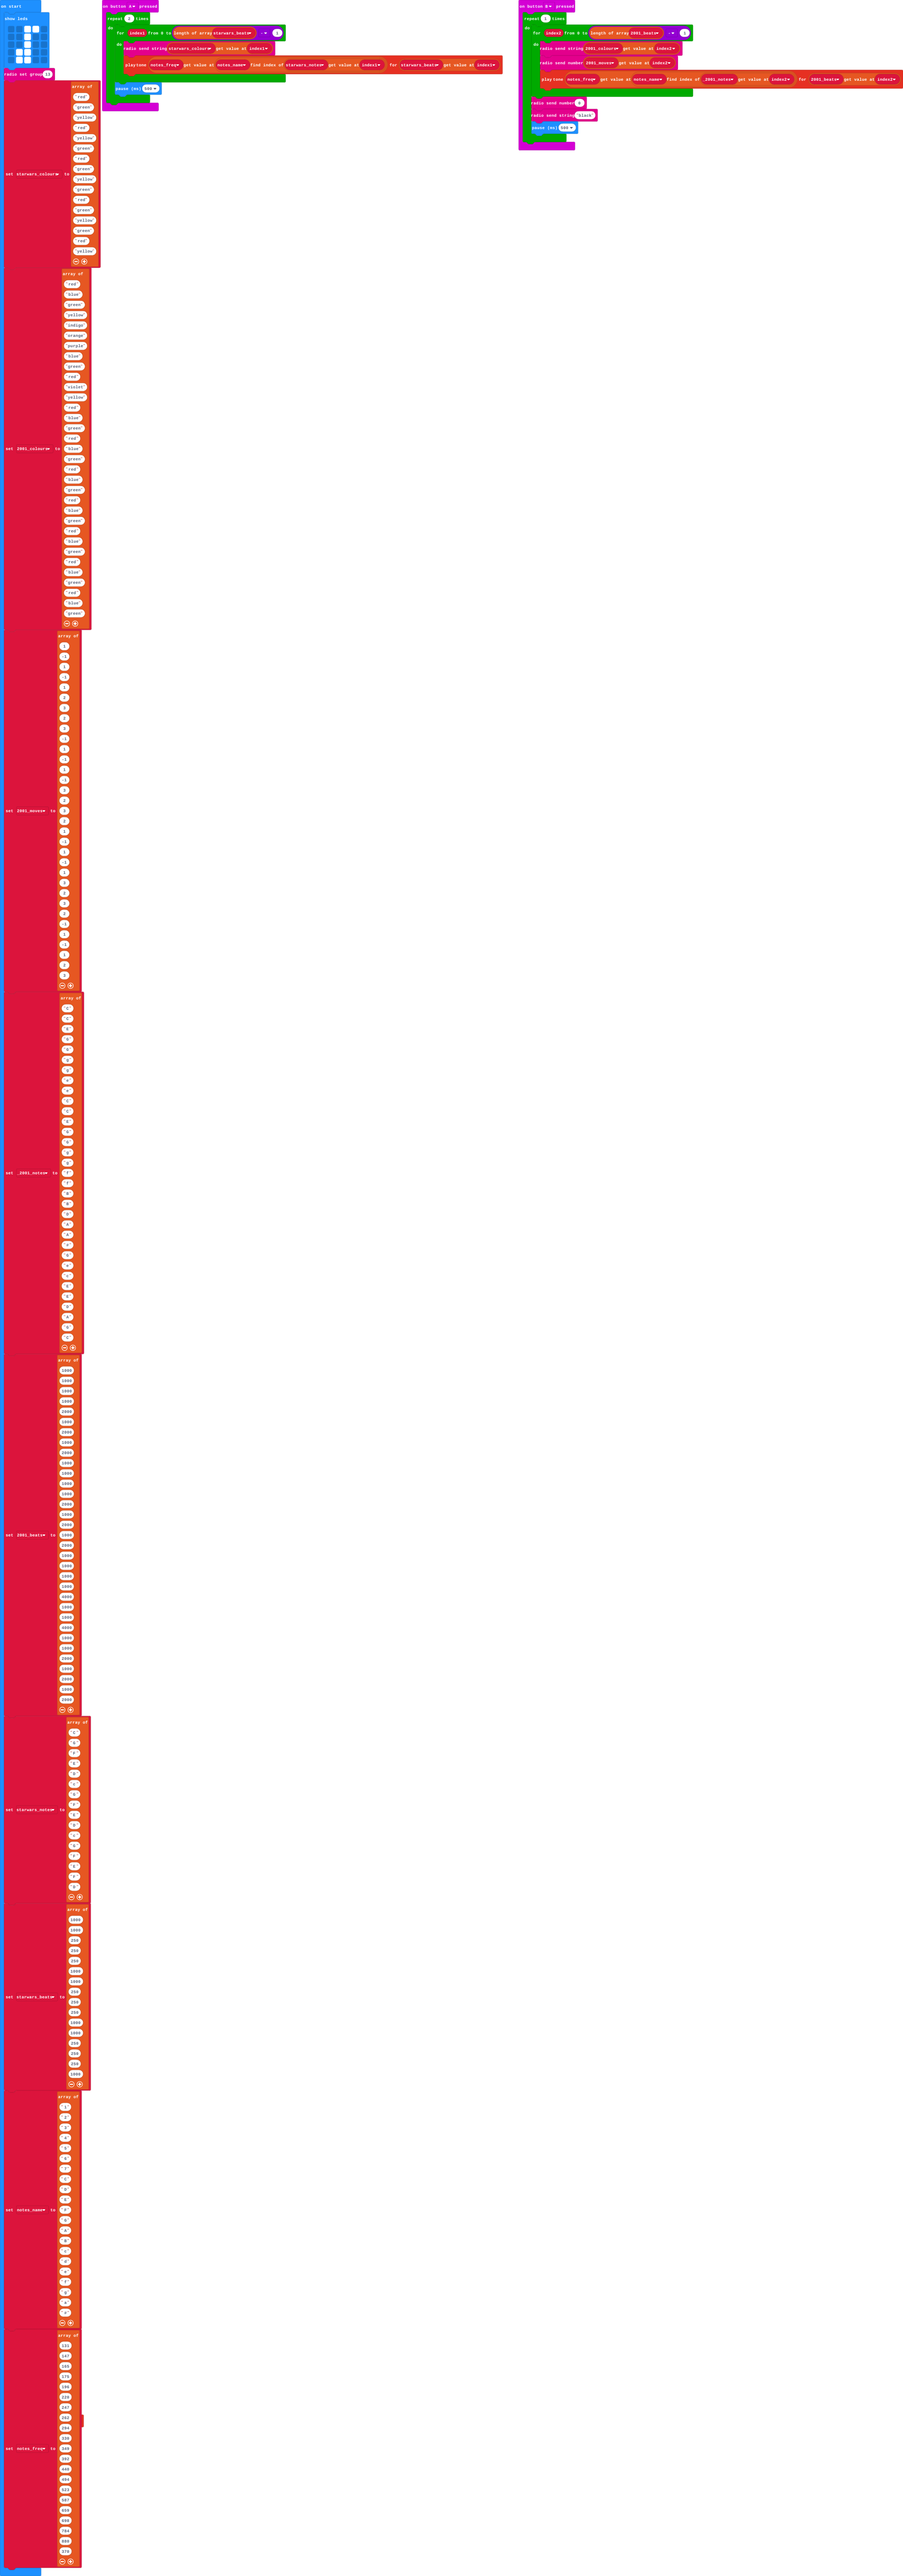
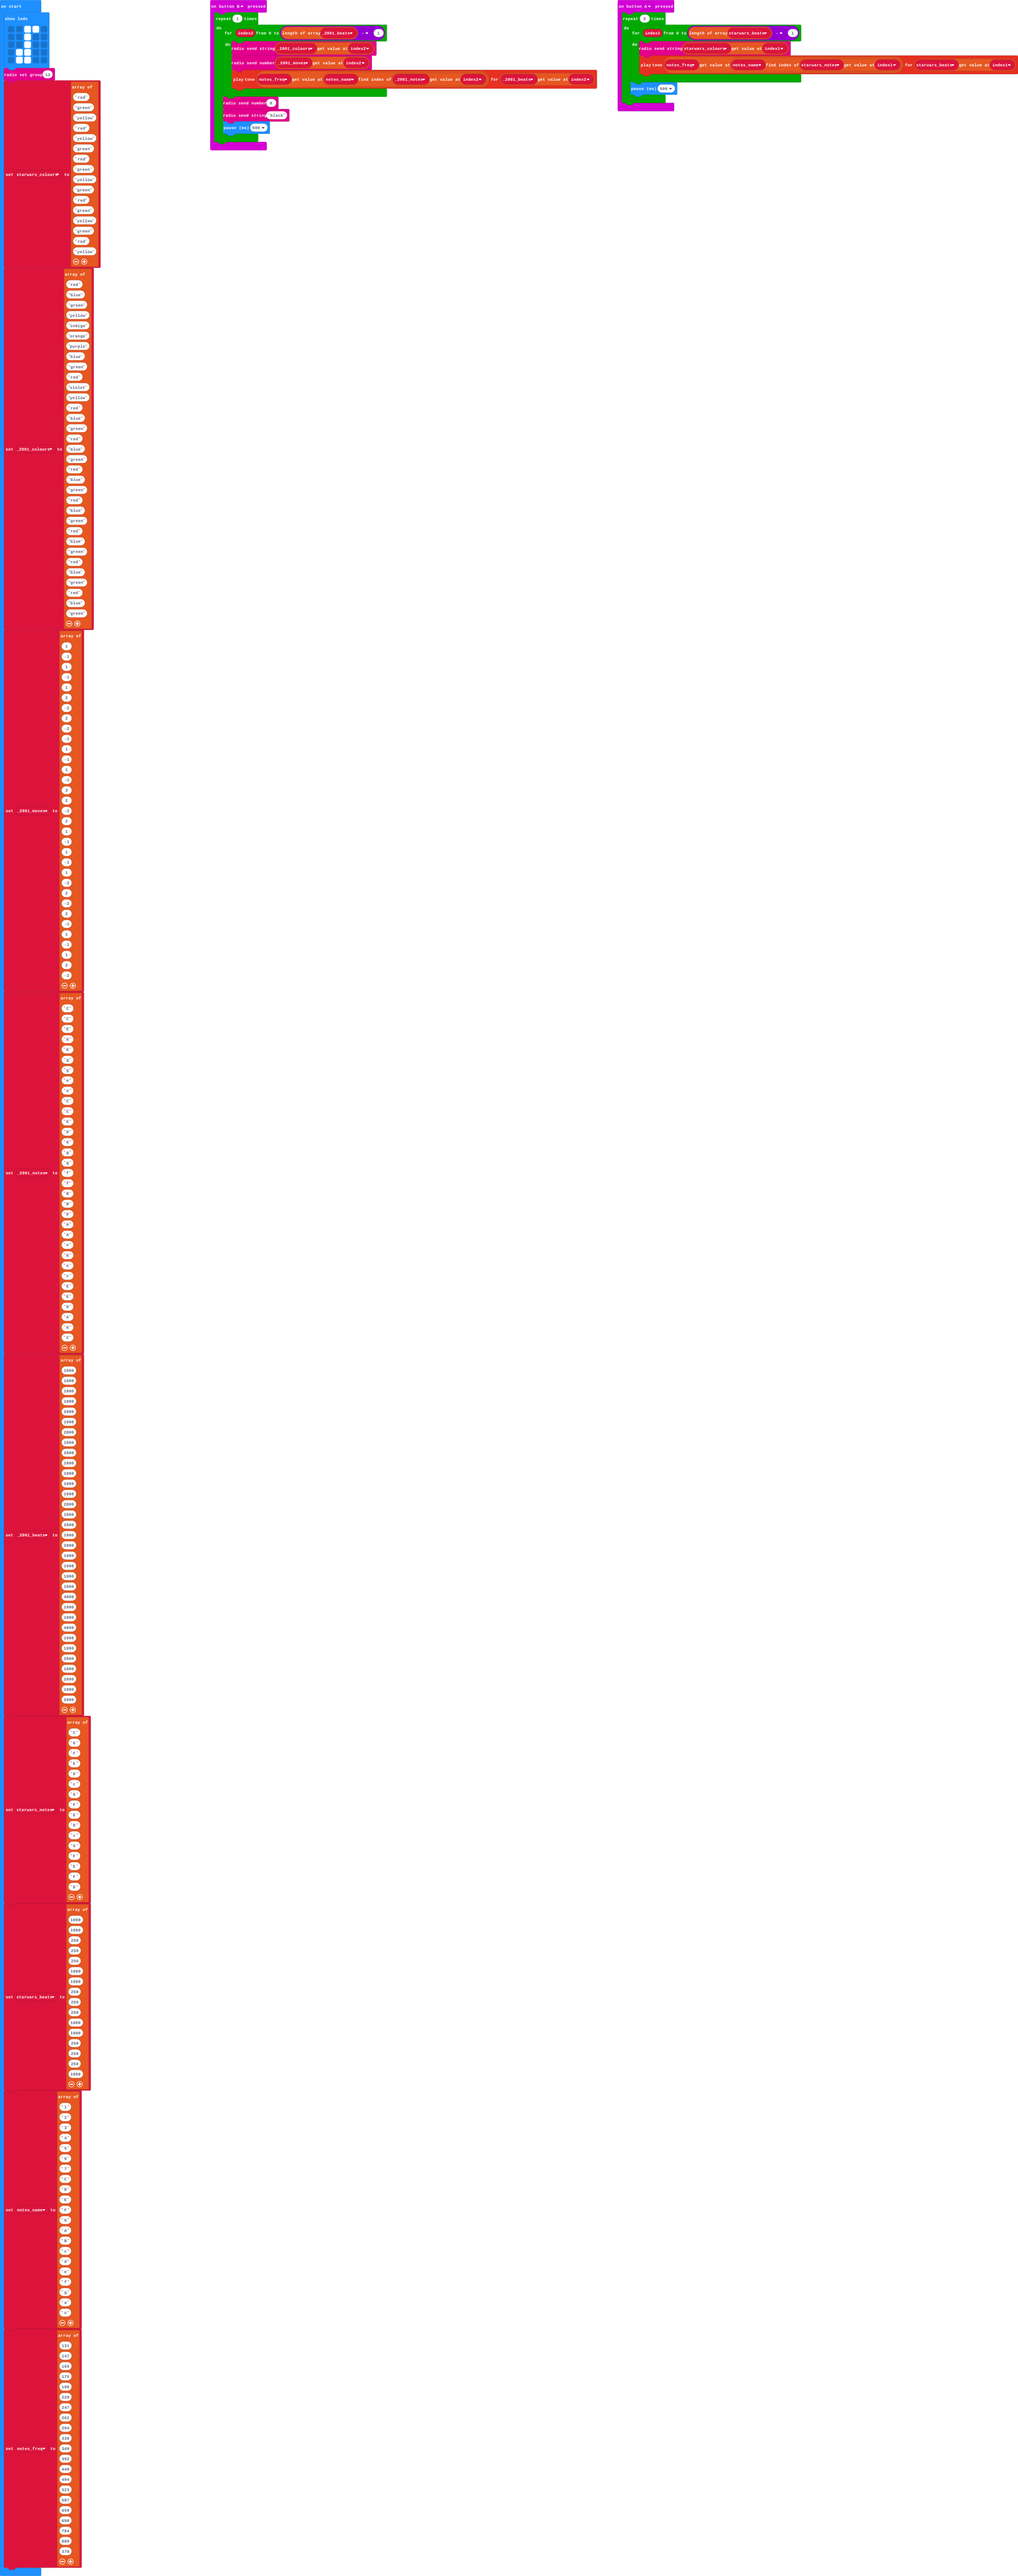
Update main.blocks, main.ts

Changed region(s): [[0.0, 0.0, 1.0, 1.0], [0.0, 0.0, 0.0615, 0.0312]]

diff --git a/main.ts b/main.ts
@@ -1,6 +1,3 @@
-input.onButtonPressed(Button.AB, function () {
-    music.playTone(659, music.beat(BeatFraction.Whole))
-})
 input.onButtonPressed(Button.B, function () {
     for (let index = 0; index < 1; index++) {
         for (let index2 = 0; index2 <= _2001_beats.length - 1; index2++) {
@@ -41,7 +38,7 @@ basic.showLeds(`
 radio.setGroup(13)
 starwars_colours = ["red", "green", "yellow", "red", "yellow", "green", "red", "green", "yellow", "green", "red", "green", "yellow", "green", "red", "yellow"]
 _2001_colours = ["red", "blue", "green", "yellow", "indigo", "orange", "purple", "blue", "green", "red", "violet", "yellow", "red", "blue", "green", "red", "blue", "green", "red", "blue", "green", "red", "blue", "green", "red", "blue", "green", "red", "blue", "green", "red", "blue", "green"]
-_2001_moves = [1, -1, 1, -1, 1, 2, 3, 2, 3, -1, 1, -1, 1, -1, 3, 2, 3, 2, 1, -1, 1, -1, 1, 3, 2, 3, 2, -1, 1, -1, 1, 2, 3]
+_2001_moves = [1, -1, 1, -1, 1, 2, -2, 2, -2, -1, 1, -1, 1, -1, 3, 2, -2, 2, 1, -1, 1, -1, 1, -2, 2, -2, 2, -1, 1, -1, 1, 2, -2]
 _2001_notes = ["C", "C", "E", "G", "G", "g", "g", "e", "e", "C", "C", "E", "G", "G", "g", "g", "f", "f", "B", "B", "D", "A", "A", "#", "G", "e", "c", "E", "E", "D", "A", "G", "C"]
 _2001_beats = [1000, 1000, 1000, 1000, 2000, 1000, 2000, 1000, 2000, 1000, 1000, 1000, 1000, 2000, 1000, 2000, 1000, 2000, 1000, 1000, 1000, 1000, 4000, 1000, 1000, 4000, 1000, 1000, 2000, 1000, 2000, 1000, 2000]
 starwars_notes = ["C", "G", "F", "E", "D", "c", "G", "F", "E", "D", "c", "G", "F", "E", "F", "D"]
